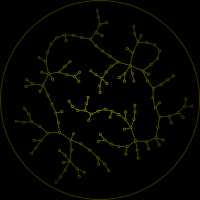
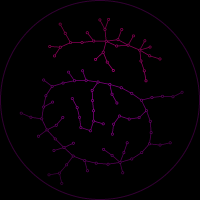
spring_force_twitchy changed desc, thumbnail and coef values

diff --git a/app/experimental/samples/spring_force_twitchy.js b/app/experimental/samples/spring_force_twitchy.js
@@ -2,13 +2,13 @@
 import { initSpringForce } from '../spring_force'
 
 export const init = (): void => initSpringForce({
-  COUNT_POINTS: 150,
-  LINKS_LENGTH_MUL: 800,
-  FORCE_MUL: 0.1,
+  COUNT_POINTS: 100,
+  LINKS_LENGTH_MUL: 900,
+  FORCE_MUL: 0.2,
   REPULSING_FORCE_MUL: 0.15,
   REPULSING_FORCE_MAX_DIST_MUL: 0.2,
-  SLOWDOWN_MUL: 0.75, // backward -- less value -- more slowdown
-  CB_FORCE_MUL: 0.002,
+  SLOWDOWN_MUL: 0.7, // backward -- less value -- more slowdown
+  CB_FORCE_MUL: 0.0018,
   MAX_SPEED_QUAD_TRIGGER: 0.06,
   REBUILD_EVERY: 2500,
   CG_STEPS: 50,

diff --git a/app/experimental/components/samples_collection.jsx b/app/experimental/components/samples_collection.jsx
@@ -118,7 +118,7 @@ const colorConfig: Array<SamplePreviewConfig> = [
   },
   {
     name: 'spring force twitchy',
-    description: 'like spring force smooth, but springs are quite hard. more points',
+    description: 'like spring force smooth, but springs are quite hard',
     sample_url: './spring_force_twitchy',
     img_path: './thumbnails/spring_force_twitchy.png',
     status: 'almost_ready',
